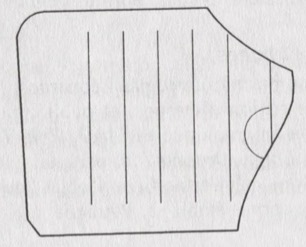
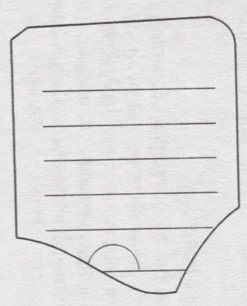
Add Lined Tablets section.

Changed region(s): [[0.0283, 0.0, 0.9919, 0.9636], [0.8785, 0.6802, 0.9636, 0.7368]]

diff --git a/public/css/custom.css b/public/css/custom.css
@@ -11,6 +11,14 @@
     //height: 5px !important;
 }
 
+.rotate90 {
+    -webkit-transform: rotate(90deg);
+    -moz-transform: rotate(90deg);
+    -o-transform: rotate(90deg);
+    -ms-transform: rotate(90deg);
+    transform: rotate(90deg);
+}
+
 @font-face {
   font-family: "Dalek";
   src: url(/counting-pebbles/assets/fonts/DALEK.ttf);

diff --git a/tablets_lined.md b/tablets_lined.md
@@ -1,0 +1,40 @@
+---
+layout: page
+title: Lined Tablets
+---
+
+<table>
+  <tbody>
+    <tr>
+      <th>Image</th>
+      <th>Name</th>
+      <th>
+        <div>Inscriptions</div>
+        <div><small><sup>x</sup> Xs on lines</small></div>
+        <div><small><sup>⟂</sup> vertical line</small></div>
+        <div><small><sup>◗</sup> semi-circle</small></div>
+      </th>
+    </tr>
+{% for artifact in site.data.artifacts %}
+{% assign photo = site.data.images | where:"id", artifact.photo  | first %}
+    <tr>
+      <td><a href="{{site.baseurl}}/assets/img/Cargill/{{photo.img}}" data-lightbox="{{artifact.id}}" data-title="{{artifact.name}}">
+            <img src="{{site.baseurl}}/assets/img/Cargill/{{photo.img}}" alt="{{artifact.name}}" width="100">
+      </a></td>
+      <td>{{artifact.name}}</td>
+      <td>
+{% for line in artifact.lines %}
+        <div>{{line.number}} lines{% if line.broken %} (broken){% endif %}
+          {%- if line.hasXs -%}<sup>x</sup>{%- endif -%}
+          {%- if line.hasVert -%}<sup>⟂</sup>{%- endif -%}
+          {%- if line.hasSC -%}<sup>◗</sup>{%- endif -%}
+        </div>
+{% endfor %}
+{% for inscript in artifact.inscriptions %}
+        <div class="gfs">{{inscript}}</div>
+{% endfor %}
+      </td>
+    </tr>
+{% endfor %}
+  </tbody>
+</table>
